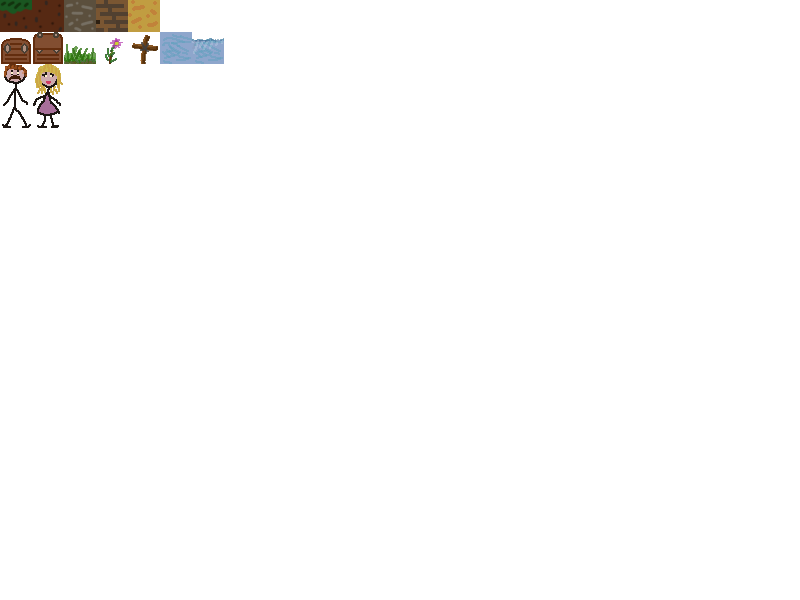
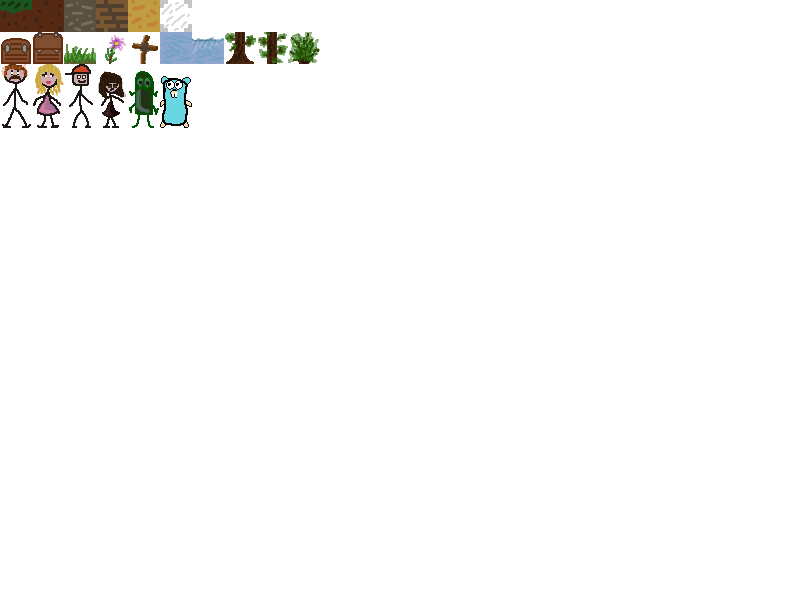
More ressources, makefile for windows

diff --git a/src/localInstance/localInstance.go b/src/localInstance/localInstance.go
@@ -9,11 +9,11 @@ import (
 )
 
 // Game solo
-func StartInstance() {
+func StartInstance(nickname, character string) {
 	localChannel := make(chan string)
 
 	game := game.New(localChannel)
-	game.SetPlayer(entity.Pos{X: 7.0, Y: -1.0})
+	game.SetPlayer(entity.Pos{X: 7.0, Y: -1.0}, nickname, character)
 
 	io := io.New(localChannel)
 
@@ -24,13 +24,13 @@ func StartInstance() {
 }
 
 // Game multiplayer
-func ConnectToServer(host, port, nickname string) {
+func ConnectToServer(host, port, nickname, character string) {
 	localChannel := make(chan string)                // Send user's input to game to move own player
 	playerPosChannel := make(chan entity.PlayerInfo) // Send own player position to TCPClient
 	allPlayersPosChannel := make(chan []byte)        // Send all players data from TCPClient to game instance
 
 	game := game.New(localChannel)
-	game.SetPlayer(entity.Pos{X: 7.0, Y: -1.0})
+	game.SetPlayer(entity.Pos{X: 7.0, Y: -1.0}, nickname, character)
 	game.SetPlayerNickname(nickname)
 
 	game.BindMultiplayerChannels(playerPosChannel, allPlayersPosChannel)

diff --git a/main.go b/main.go
@@ -10,15 +10,19 @@ import (
 func main() {
 	args := os.Args
 
-	if len(args) == 1 {
-		localInstance.StartInstance()
-	} else if len(args) >= 2 && args[1] == "server" {
+	if len(args) >= 3 && args[1] == "server" {
 		serverInstance.StartInstance()
-	} else if len(args) >= 5 && args[1] == "multiplayer" {
+	} else if len(args) >= 6 && args[1] == "multiplayer" {
 		host := args[2]
 		port := args[3]
 		nickname := args[4]
-		localInstance.ConnectToServer(host, port, nickname)
+		character := args[4]
+		localInstance.ConnectToServer(host, port, nickname, character)
+	} else if len(args) >= 2 {
+		character := args[1]
+		localInstance.StartInstance("solo", character)
+	} else if len(args) == 1 {
+		localInstance.StartInstance("solo", "gopher")
 	} else {
 		fmt.Println("Wrong arguments provided.")
 	}

diff --git a/src/game/game.go b/src/game/game.go
@@ -61,8 +61,16 @@ func (g *Game) Run() {
 }
 
 // Add a new player
-func (g *Game) SetPlayer(playerPos entity.Pos) {
-	g.Player = entity.NewPlayer(playerPos)
+func (g *Game) SetPlayer(playerPos entity.Pos, nickname, character string) {
+	characterKey := "k"
+	// If name is found among ressource elements,
+	// sets player's Character property to key in map g.Ressources.Elements
+	for k, v := range g.Ressources.Elements {
+		if v.Name == "player_"+character {
+			characterKey = k
+		}
+	}
+	g.Player = entity.NewPlayer(playerPos, nickname, characterKey)
 }
 
 // Sets Player's nickname for multiplayer

diff --git a/src/game/entity/player.go b/src/game/entity/player.go
@@ -6,7 +6,8 @@ const GRAVITY float64 = 0.0065
 
 type Player struct {
 	// Identification properties
-	Nickname string
+	Nickname  string // User nickname
+	Character string // Character played (key not name)
 
 	// Movement properties
 	Pos              Pos
@@ -22,8 +23,11 @@ type Player struct {
 }
 
 // Create a new player
-func NewPlayer(pos Pos) Player {
+func NewPlayer(pos Pos, nickname, character string) Player {
 	return Player{
+		Nickname:  nickname,
+		Character: character,
+
 		Pos:           pos,
 		TouchesGround: false,
 		MovesLeft:     false,

diff --git a/src/localInstance/gameWindow/drawEntities.go b/src/localInstance/gameWindow/drawEntities.go
@@ -10,7 +10,7 @@ func (g *Graphics) drawEntities(screen *ebiten.Image) {
 		g.halfWidth,
 		g.halfHeight,
 	)
-	screen.DrawImage(g.game.Ressources.Elements["P"].Img, op)
+	screen.DrawImage(g.game.Ressources.Elements[g.game.Player.Character].Img, op)
 
 	// Draw other players
 	xPlayer := g.game.Player.Pos.X

diff --git a/README.md b/README.md
@@ -2,19 +2,42 @@
 
 So I'll try to build a 2D game, exploration, construction, fights, lvl up, multi players.
 
-## Ideas
+## Doc
 
-- Only english game
-- I won't do the grafoosms
+> `gopherLand2.exe`
+
+*Run the game in solo mode as Gopher.*
+
+> `gopherLand2.exe solo gina`
+
+*Run the game in solo mode as Gina.*
+
+> `gopherLand2.exe multiplayer localhost 12387 Pazu george`
+
+*Run the game in multiplayer mode defining host, port, player nickname (Pazu) and playing as George*
+
+> `gopherLand2.exe serer`
+
+*Run a TCP server on localhost trough port* **12387**.
+
+## Characters
+
+- **George** - *George is based. He maintains a beautiful moustache.*
+- **Gina** - *Gina is pretty and use a lot of makeup. Though she is completely stupid.*
+- **Gavin** - *Gavin thinks the world is easy. He is also a good student.*
+- **Gwen** - *Gwen is a dark depressive girl. She has a very bad memory.*
+- **Galien** - *Fkzjvqo mxbdpylkw nruaties hgc. Bibble wibble flib.*
+- **Gopher** - *Gopher know the truth about this world. He will never tell.*
+
 
 ## To do
 
-| Stat | To do         | Description                                                                             |
-| ---- | ------------- | --------------------------------------------------------------------------------------- |
-| Ok   | Window        | Open resizable window                                                                   |
-| Ok   | Map           | Read a map in a file format and displays it correctly                                   |
-| Nok  | Player        | A player is animated and can move through a simple key set                              |
-| Nok  | Mob/NPC       | Player can interact with NPC and mobs                                                   |
-| Nok  | Items         | Items just exists in the game, can pop, can be stored                                   |
-| Nok  | Multiplayer   | Possible to play multiplayer through TCP server                                         |
-| Nok  | Multiplatform | The game works for Win32, Win64, and most used Linux archs, server can run on raspberry |
+| Stat   | To do         | Description                                                                             |
+| ------ | ------------- | --------------------------------------------------------------------------------------- |
+| Ok     | Window        | Open resizable window                                                                   |
+| Ok     | Map           | Read a map in a file format and displays it correctly                                   |
+| Ok     | Multiplayer   | Possible to play multiplayer through TCP server                                         |
+| Almost | Player        | A player is animated and can move through a simple key set                              |
+| Nok    | Mob/NPC       | Player can interact with NPC and mobs                                                   |
+| Nok    | Items         | Items just exists in the game, can pop, can be stored                                   |
+| Nok    | Multiplatform | The game works for Win32, Win64, and most used Linux archs, server can run on raspberry |
